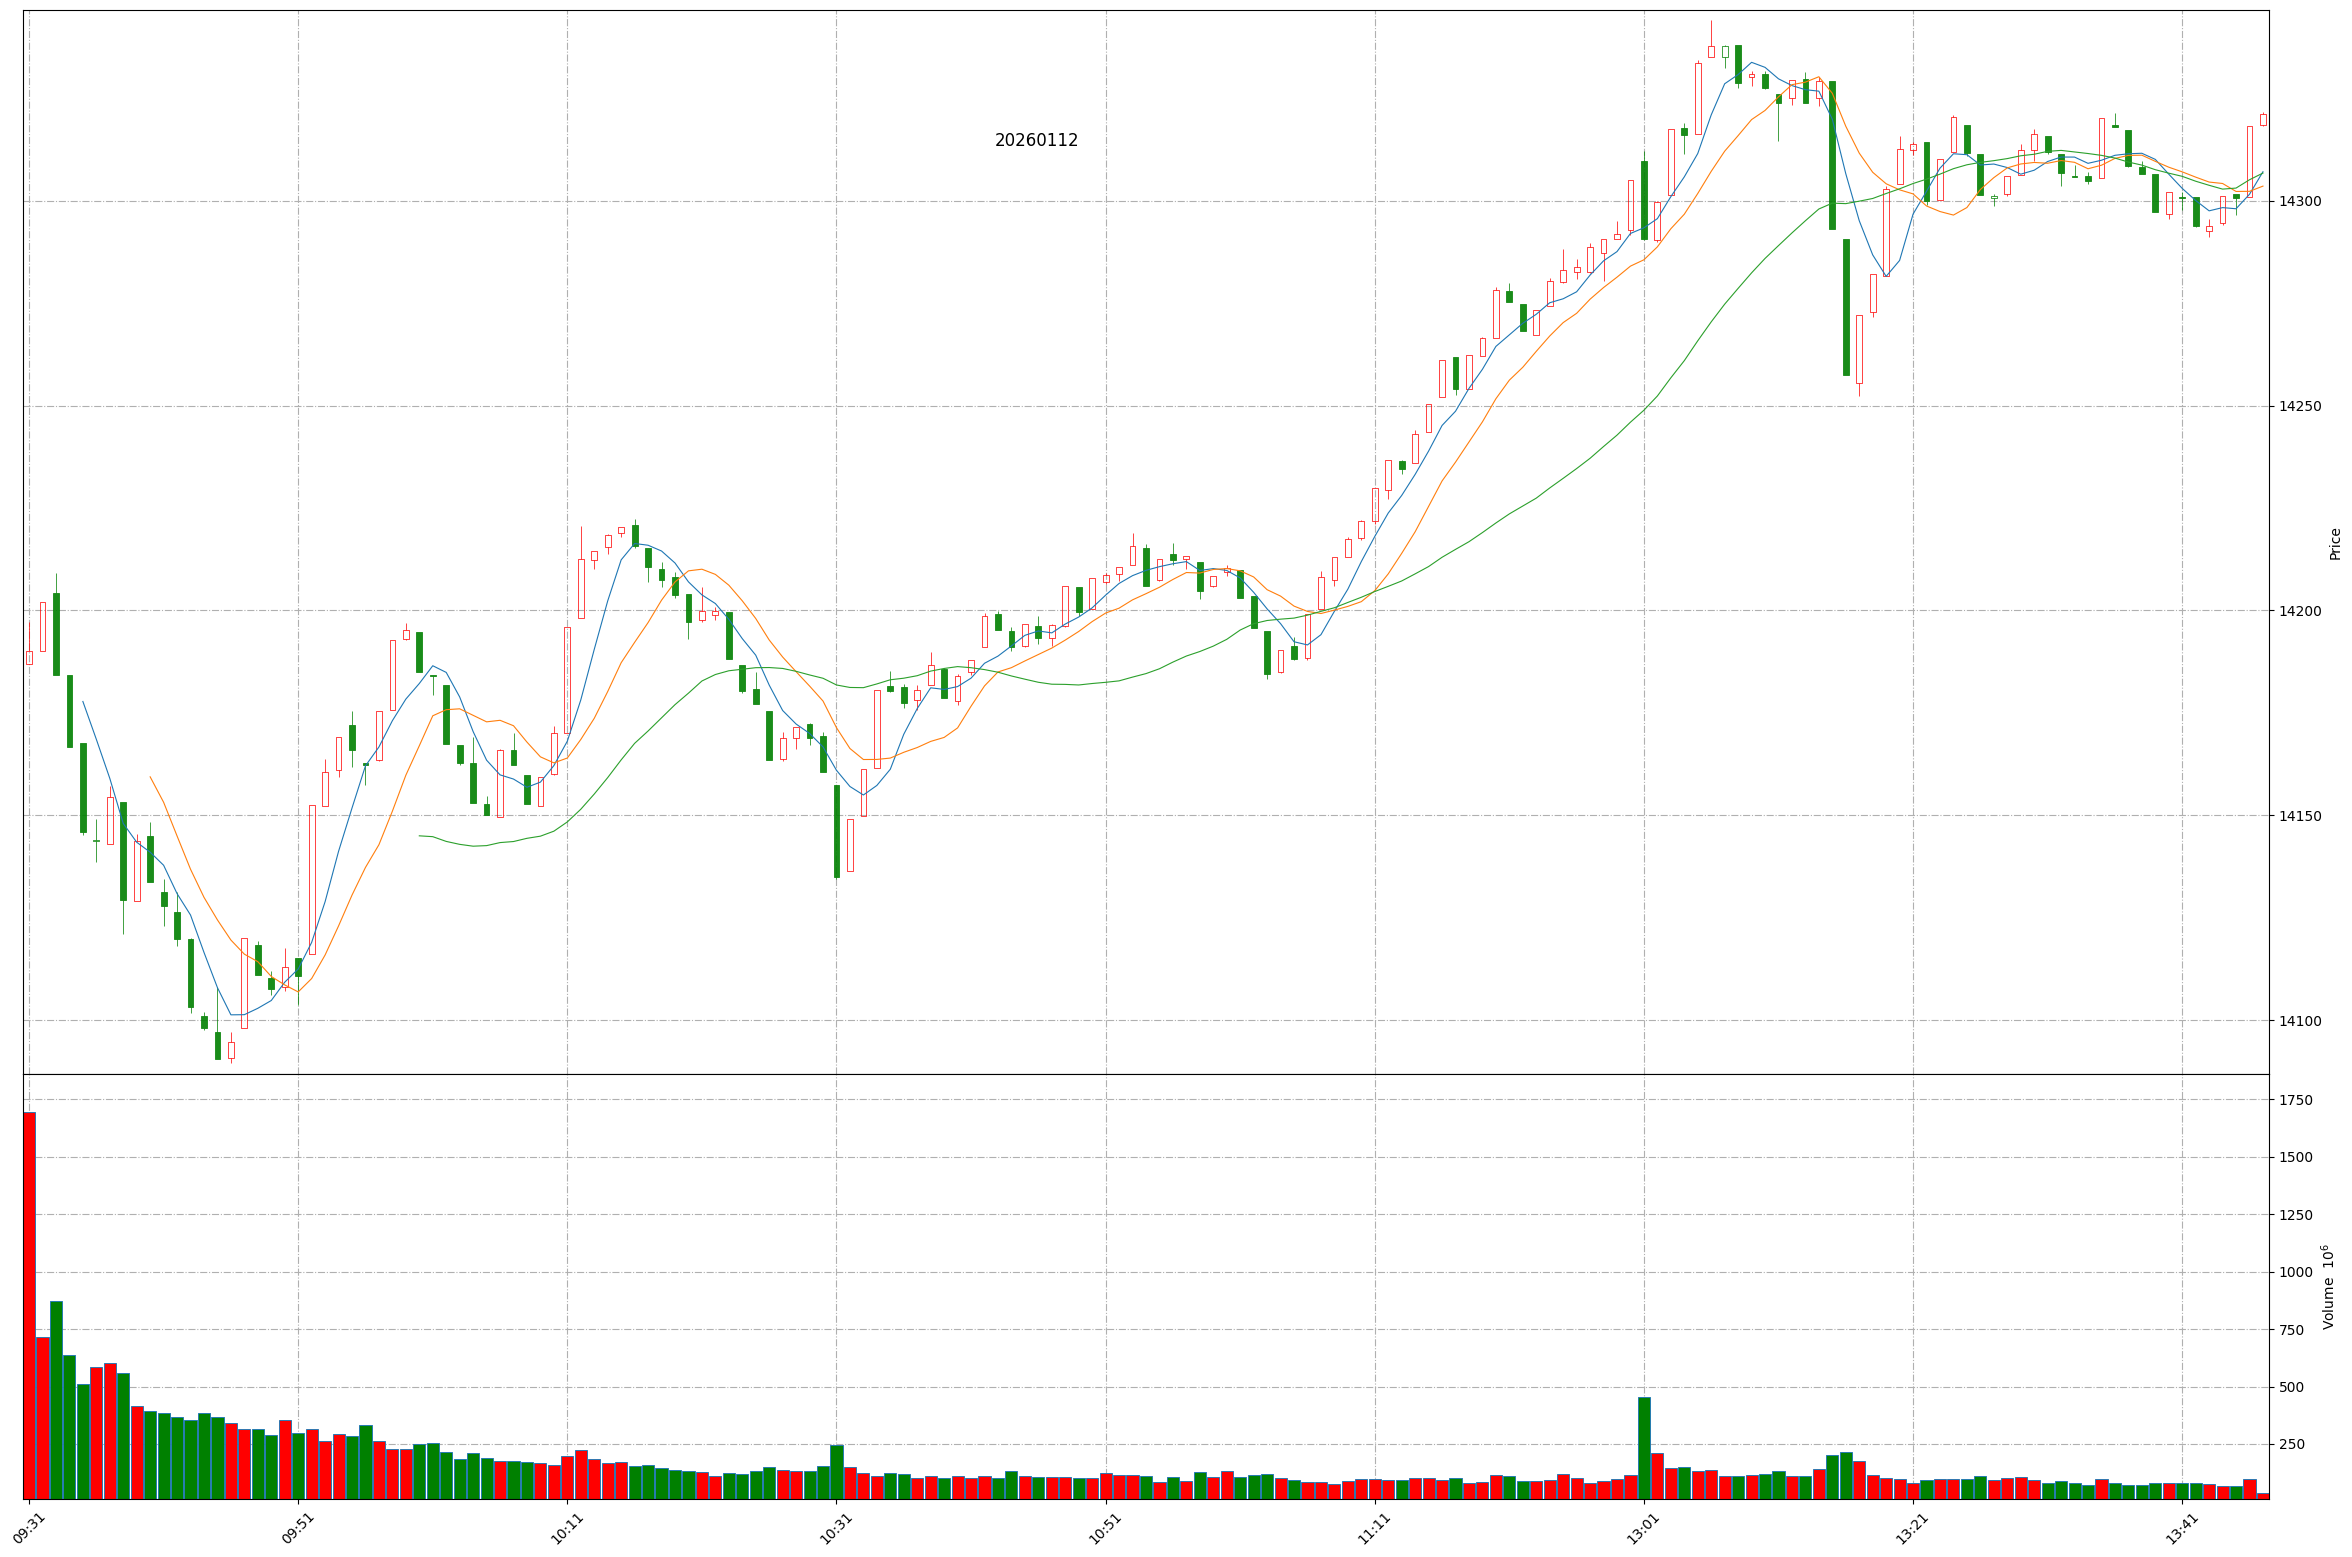
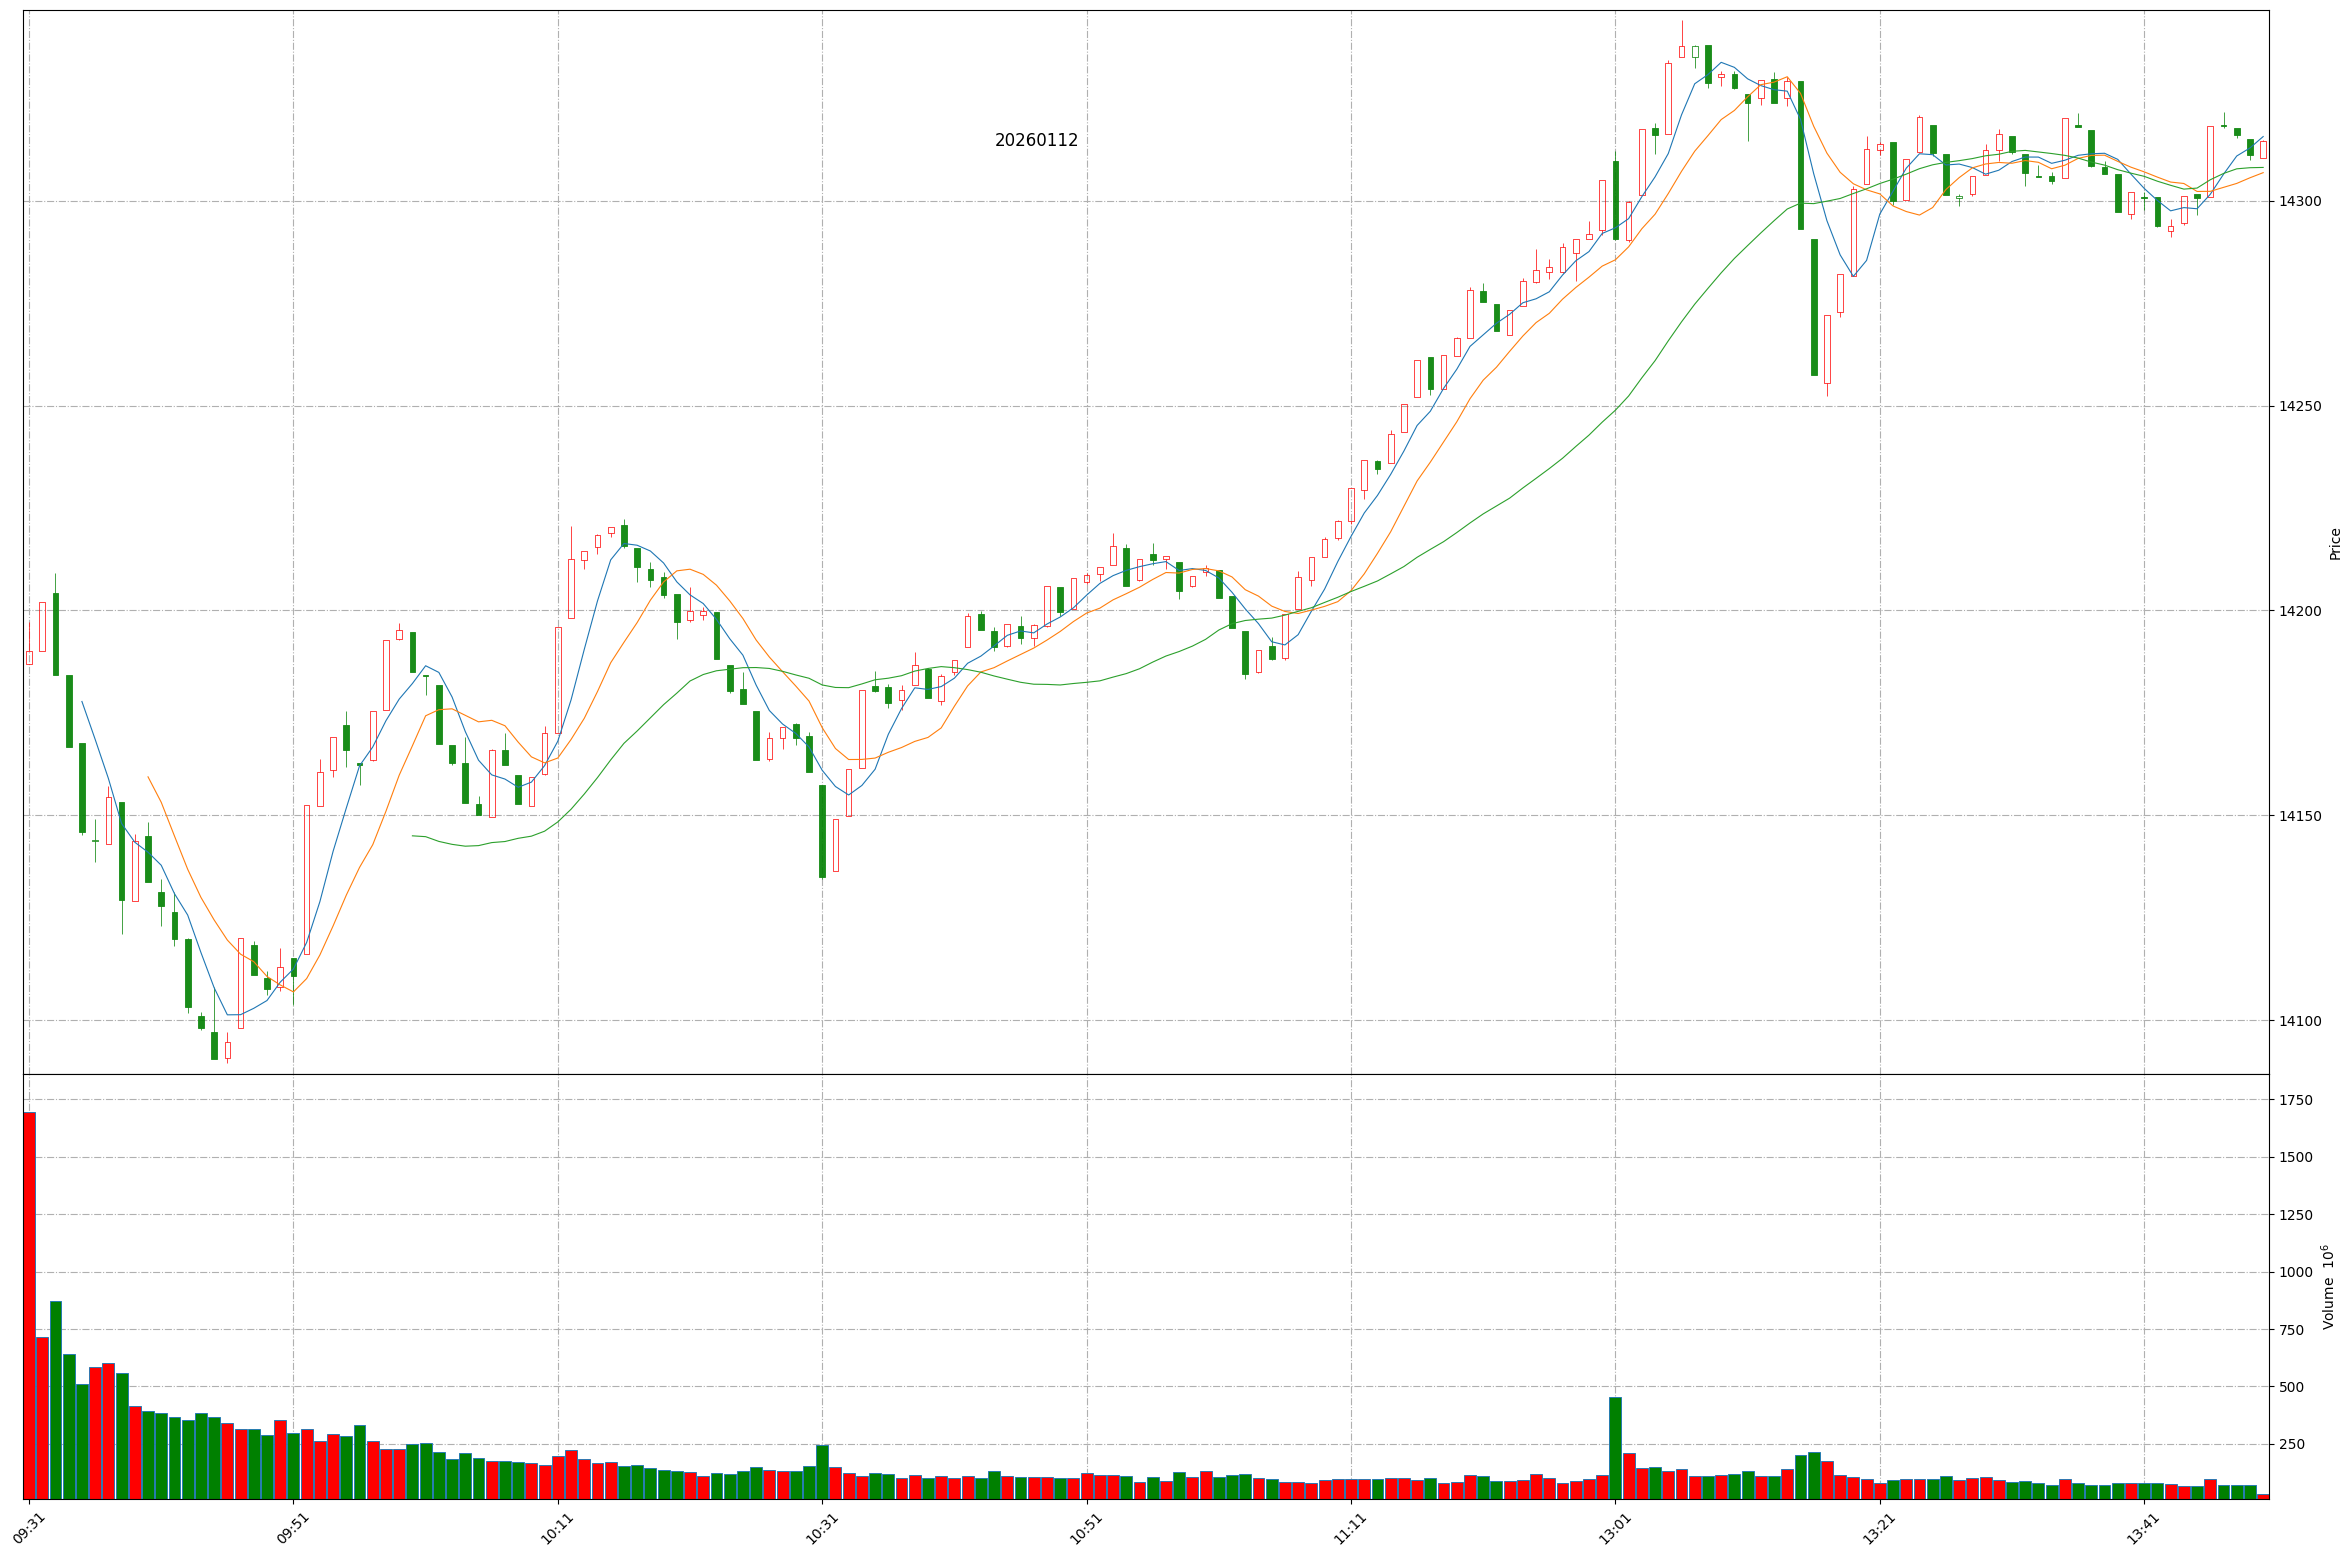
Github action update at 2026-01-12 13:49:48.

diff --git a/README.md b/README.md
@@ -1,11 +1,11 @@
 
 # Daily-A-share-market-quotes 每日 A 股指数（5min 更新）- 20260112
 
-### 上证指数 20260112 13:46
+### 上证指数 20260112 13:49
 ![](./fig/2026/1/20260112-sh000001.png)
 
-### 深证成指 20260112 13:46
+### 深证成指 20260112 13:49
 ![](./fig/2026/1/20260112-sz399001.png)
 
-### 北证50 20260112 13:46
+### 北证50 20260112 13:49
 ![](./fig/2026/1/20260112-bj899050.png)
